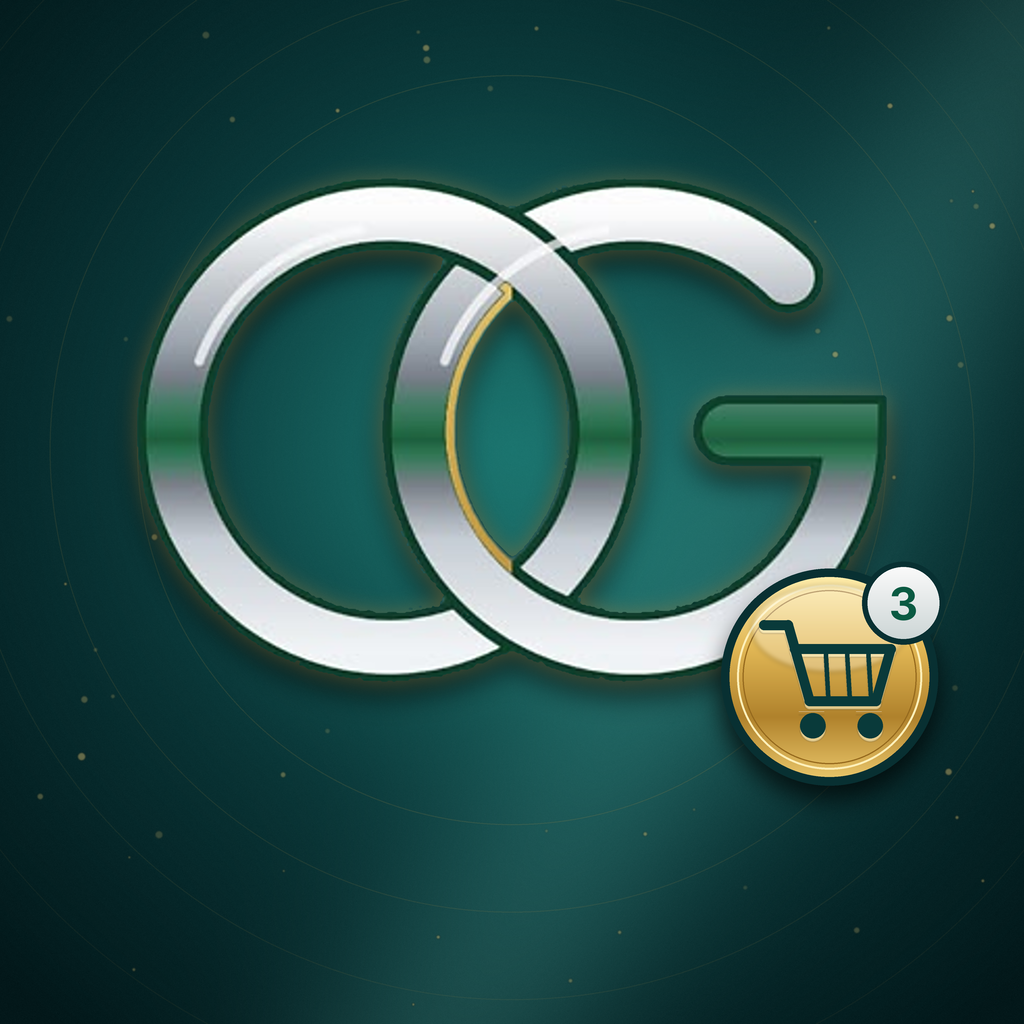
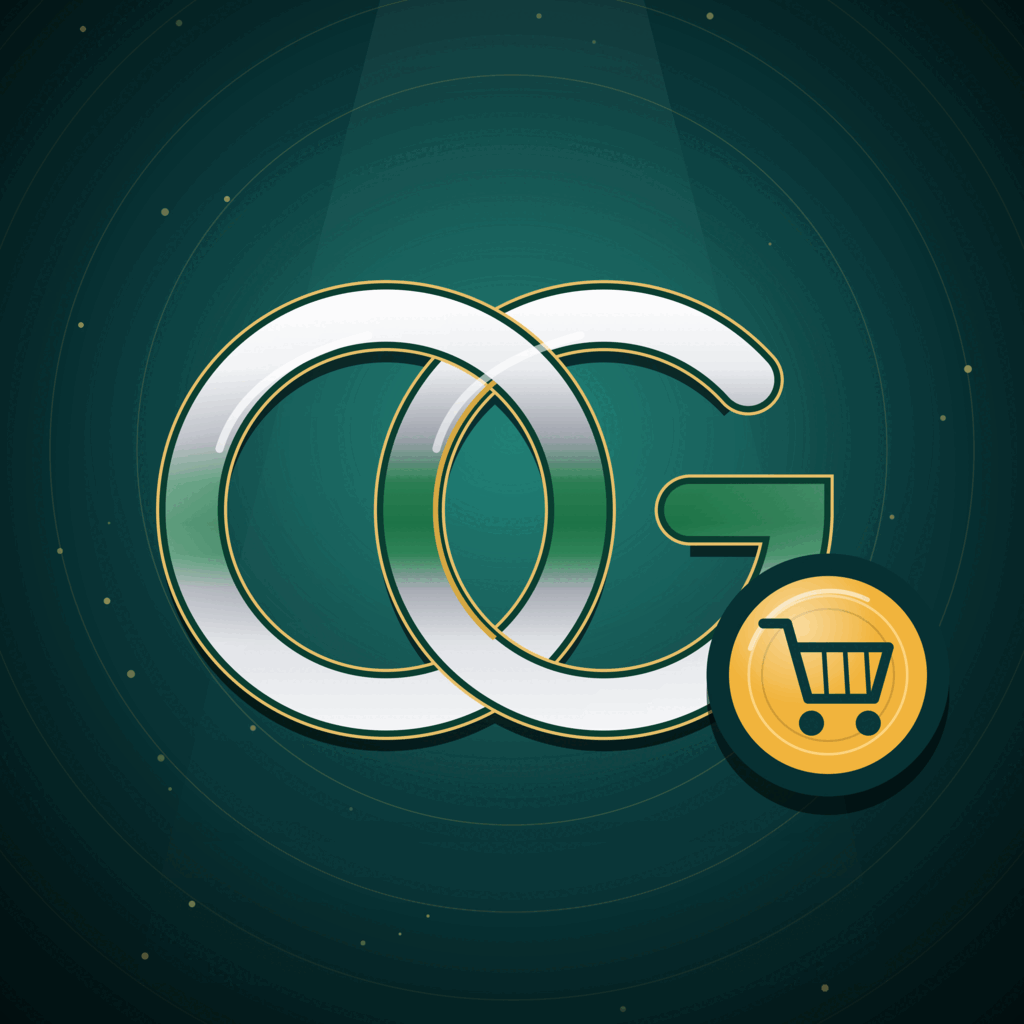
Update mobile brand assets and agent memory configurations
Replit-Commit-Author: Agent

diff --git a/.agents/memory/MEMORY.md b/.agents/memory/MEMORY.md
@@ -48,3 +48,4 @@
 - [Buyer push and preferences](buyer-push-delivery.md) — keep buyer settings and device notifications separate from investor-only identity and push callbacks.
 - [Expo SDK 58 Android system bars](expo-sdk58-system-bars.md) — edge-to-edge is enforced; navigation-bar contrast settings need a native build, not Expo Go.
 - [Buyer support calls and translations](buyer-support-calls-translations.md) — keep calls inside buyer chat and route them to the planned admin mobile app; respect explicit voice-processing consent and caps.
+- [Android launcher icon layers](android-launcher-icon-layers.md) — use a transparent adaptive foreground with a separate background, not a full composite image.

diff --git a/.agents/memory/android-launcher-icon-layers.md b/.agents/memory/android-launcher-icon-layers.md
@@ -1,0 +1,10 @@
+---
+name: Android launcher icon layers
+description: Prevent Android adaptive launcher icons from appearing shrunken or inset.
+---
+
+Android adaptive launcher icons need transparent foreground artwork composed over a separate background. Do not configure a full opaque app-icon image as the foreground.
+
+**Why:** The launcher scales and masks the foreground independently; an opaque image that already includes its background looks like a small inset square.
+
+**How to apply:** Use a full composite PNG for iOS/general icon fields, and a transparent, safe-zone-sized PNG plus a separate solid or image background for Android adaptive icons.
